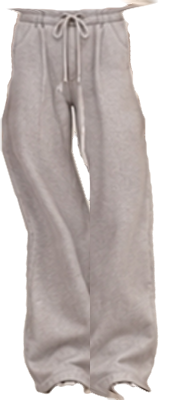
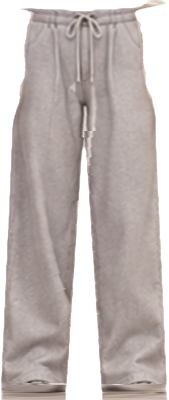
Pantalons : jambes droites et symétriques (plus de zigzag), chaussures sous l'ourlet
Claude-Session: https://claude.ai/code/session_01RffJDTtPaeahFdiXkdY2ya

diff --git a/js/app.js b/js/app.js
@@ -754,7 +754,7 @@ function body(s,p,sk,skD,skDD,skL){
  <pattern id="${p}qlt" width="20" height="20" patternUnits="userSpaceOnUse" patternTransform="rotate(45)"><path d="M0,0 H20 M0,0 V20" stroke="#000" stroke-opacity=".2" stroke-width="1.4"/></pattern></defs>`;
  let o=`<ellipse cx="200" cy="878" rx="80" ry="9" fill="#000" opacity=".13"/>`;
   {/* jean long décalqué : les jambes ne sont dessinées que sous l'ourlet (elles ne dépassent jamais sur les côtés) */
-   const JA=typeof JEAN_ART!=='undefined'&&s.bottom!=='bermuda'&&s.bottom!=='jupejean'&&!(s.dress&&s.dress!=='aucune')&&JEAN_ART[s.bottom],hy=JA?376+JA.h*(856-376)/JEAN_ART.mom.h-6:0;
+   const JA=typeof JEAN_ART!=='undefined'&&s.bottom!=='bermuda'&&s.bottom!=='jupejean'&&!(s.dress&&s.dress!=='aucune')&&JEAN_ART[s.bottom],hy=JA?(JEAN_PROF[s.bottom]||s.bottom==='joggajust'?376+JA.h*(856-376)/JEAN_ART.mom.h-6:900):0;/* pantalons longs décalqués : les jambes restent cachées (elles ne dépassent pas entre les deux jambes du pantalon) */
    o+=(JA?`<defs><clipPath id="${p}lgc"><rect x="0" y="${fx(hy)}" width="400" height="200"/></clipPath></defs><g clip-path="url(#${p}lgc)">`:'')+[-1,1].map(k=>`<path d="${legD(G,k)}" fill="${LM}"/>`).join('')+(JA?'</g>':'')}
  o+=`<path d="${torsoD(G,478,0,'flat')}" fill="${sk}"/><ellipse cx="200" cy="398" rx="2.2" ry="3.5" fill="${skDD}" opacity=".45"/>`;
  if(G.f)o+=LN('M170,360 Q186,372 200,378 Q214,372 230,360',skD,1.5,.25);
@@ -763,7 +763,10 @@ function body(s,p,sk,skD,skDD,skL){
  const nw=s.sexe==='m'?16.5:15;o+=s.sexe==='m'?`<path d="M${200-nw},150 L${200-nw},224 Q200,234 ${200+nw},224 L${200+nw},150Z" fill="${mix(skD,sk,.55)}"/>`:`<path d="M185,150 L185,220 Q200,230 215,220 L215,150Z" fill="${mix(skD,sk,.55)}"/>`;
  if(T.neck==='off'||T.neck==='asym'||T.neck==='deepv')o+=LN('M168,226 Q182,231 194,227 M206,227 Q218,231 232,226',skDD,1.6,.35);
  const boot=s.shoes==='bottes';
- if(!boot)o+=shoesSVG(s,sk,G,skD,skL,p);
+ /* pantalon long décalqué : la chaussure ne dépasse pas au-dessus de l'ourlet (entre les deux jambes du pantalon) */
+ const JL=typeof JEAN_ART!=='undefined'&&JEAN_ART[s.bottom]&&!JEAN_PROF[s.bottom]&&!['jupejean','joggajust'].includes(s.bottom)&&!(s.dress&&s.dress!=='aucune')?376+JEAN_ART[s.bottom].h*(856-376)/JEAN_ART.mom.h-10:0;
+ const shoeW=x=>JL?`<defs><clipPath id="${p}shc"><rect x="0" y="${fx(JL)}" width="400" height="200"/></clipPath></defs><g clip-path="url(#${p}shc)">${x}</g>`:x;
+ if(!boot)o+=shoeW(shoesSVG(s,sk,G,skD,skL,p));
  if(!(s.dress&&s.dress!=='aucune'&&DR[s.dress]))o+=bottomsSVG(G,s,p);
  if(boot)o+=shoesSVG(s,sk,G,skD,skL,p);
  o+=topSVG(G,T,s,p,{TF,LM,c,dk,lt,cont,sk,skDD,h});

diff --git a/js/pantalons-art.js b/js/pantalons-art.js
@@ -1,2 +1,2 @@
 /* pantalons et jupe en jean décalqués par tools/traceur-pantalons.py sur docs/references/vetements/planche-bas-filles.png — ne pas modifier à la main */
-Object.assign(JEAN_ART,{"habpattes":{"w":177,"h":393,"cx":67.9,"waist":38.9,"hip":60.0},"habdroit":{"w":169,"h":393,"cx":67.9,"waist":40.0,"hip":59.3},"cargo":{"w":184,"h":389,"cx":76.5,"waist":40.0,"hip":59.3},"jogglarge":{"w":186,"h":400,"cx":71.1,"waist":38.9,"hip":58.6},"joggajust":{"w":147,"h":352,"cx":68.6,"waist":38.6,"hip":59.3},"lin":{"w":150,"h":393,"cx":57.9,"waist":32.5,"hip":50.7},"jupejean":{"w":150,"h":123,"cx":74.3,"waist":45.0,"hip":65.0}});
+Object.assign(JEAN_ART,{"habpattes":{"w":165,"h":393,"cx":81.9,"waist":38.9,"hip":60.0},"habdroit":{"w":146,"h":393,"cx":72.9,"waist":40.0,"hip":59.3},"cargo":{"w":156,"h":389,"cx":77.5,"waist":40.0,"hip":59.3},"jogglarge":{"w":169,"h":400,"cx":84.1,"waist":38.9,"hip":58.6},"joggajust":{"w":139,"h":352,"cx":67.6,"waist":38.6,"hip":59.3},"lin":{"w":140,"h":393,"cx":69.9,"waist":32.5,"hip":50.7},"jupejean":{"w":150,"h":123,"cx":74.3,"waist":45.0,"hip":65.0}});

diff --git a/tools/traceur-pantalons.py b/tools/traceur-pantalons.py
@@ -138,9 +138,63 @@ def smooth(v, sig=5):
     if not ok.any(): return np.zeros_like(v)
     idx = np.arange(len(v)); v = np.interp(idx, idx[ok], v[ok])
     return ndimage.gaussian_filter1d(v, sig, mode='nearest')
+DEG = {'habpattes': 1, 'habdroit': 1, 'cargo': 1, 'jogglarge': 1, 'joggajust': 2, 'lin': 1}
+def straighten(n, img, sv):
+    """jambes droites : les 4 bords des jambes (extérieur et intérieur, gauche et droite) suivent une droite
+    (une courbe douce pour les joggings) ; chaque ligne est réétirée entre ces bords : plus de zigzag."""
+    if n not in DEG: return img
+    al = img[..., 3] > 127; H_, W_ = al.shape
+    ys = [y for y in range(H_) if al[y].any()]; t, bt = ys[0], ys[-1]
+    y0 = int((500 - 376) / sv)            # sous les hanches
+    yb = bt - 3
+    E = {k: [] for k in ('l1', 'r1', 'l2', 'r2')}; Y2 = []; Y1 = []; EO = []
+    for y in range(y0, yb):
+        rr = [r_ for r_ in runs(al[y]) if r_[1] - r_[0] >= 4]
+        if len(rr) >= 2: E['l1'].append(rr[0][0]); E['r1'].append(rr[0][1]); E['l2'].append(rr[-1][0]); E['r2'].append(rr[-1][1]); Y2.append(y)
+        if rr: Y1.append(y); EO.append((rr[0][0], rr[-1][1]))
+    if len(Y1) < 10: return img
+    Y1 = np.array(Y1); EO = np.array(EO, float)
+    d = DEG[n]
+    fo_l = np.polyfit(Y1, EO[:, 0], d); fo_r = np.polyfit(Y1, EO[:, 1], d)
+    # entrejambe : première ligne à partir de laquelle les deux jambes sont séparées la plupart du temps
+    two = np.zeros(H_, bool); two[Y2] = True
+    crotch = next((y for y in range(y0, yb) if two[y:y + 20].mean() > .6), H_)
+    sel = [k for k, y in enumerate(Y2) if y >= crotch]
+    if len(sel) > 10:
+        Y2a = np.array(Y2)[sel]; fi_l = np.polyfit(Y2a, np.array(E['r1'])[sel], d); fi_r = np.polyfit(Y2a, np.array(E['l2'])[sel], d)
+    else: fi_l = fi_r = None
+    top_ = [np.where(al[y])[0] for y in range(t + 6, t + 50) if al[y].any()]; CX = float(np.median([(q.min() + q.max()) / 2 for q in top_]))
+    out = img.copy(); xs = np.arange(W_, dtype=np.float32)
+    def put(row, a0, a1, b0, b1, y):
+        m_ = (xs >= b0) & (xs <= b1)
+        src = a0 + (xs[m_] - b0) * (a1 - a0) / max(1e-3, b1 - b0)
+        for c in range(4): row[m_, c] = np.interp(src, xs, img[y, :, c])
+    for y in range(y0, bt + 1):
+        rr = [r_ for r_ in runs(al[y]) if r_[1] - r_[0] >= 2]
+        if not rr: continue
+        w = min(1, (y - y0) / 25)          # transition douce sous les hanches
+        L, R = np.polyval(fo_l, y), np.polyval(fo_r, y)
+        hw_ = (R - L) / 2; L, R = CX - hw_, CX + hw_   # les deux jambes symétriques
+        L = rr[0][0] + (L - rr[0][0]) * w; R = rr[-1][1] + (R - rr[-1][1]) * w
+        row = np.zeros((W_, 4), np.float32)
+        if fi_l is not None and y >= crotch:
+            IL, IR = np.polyval(fi_l, y), np.polyval(fi_r, y)
+            gw_ = (IR - IL) / 2; IL, IR = CX - gw_, CX + gw_
+            if IL >= IR - 1: IL = IR = (IL + IR) / 2
+            wg = min(1, (y - crotch) / 30); mg = (IL + IR) / 2; IL = mg + (IL - mg) * wg; IR = mg + (IR - mg) * wg   # l'entrejambe s'ouvre en douceur
+            if len(rr) >= 2: sl, sr = (rr[0][0], rr[0][1]), (rr[-1][0], rr[-1][1])
+            else: mid = (rr[0][0] + rr[-1][1]) / 2; sl, sr = (rr[0][0], mid), (mid, rr[-1][1])
+            put(row, sl[0], sl[1], L, IL, y); put(row, sr[0], sr[1], IR, R, y)
+        else:
+            put(row, rr[0][0], rr[-1][1], L, R, y)
+        out[y] = row
+    return out
+
 def fit_body(n, img):
-    al = img[..., 3] > 127; al = ndimage.binary_opening(al, iterations=1); H_, W_ = al.shape
-    top = [np.where(al[y])[0] for y in range(3, 9)]
+    al = img[..., 3] > 127; al = ndimage.binary_opening(al, iterations=1)
+    lb_, nl_ = ndimage.label(al); al = lb_ == (np.argmax(ndimage.sum(al, lb_, range(1, nl_ + 1))) + 1)
+    img = img.copy(); img[..., 3] *= al; H_, W_ = al.shape
+    top = [np.where(al[y])[0] for y in range(6, 50) if al[y].any()]
     cx = float(np.median([(q.min() + q.max()) / 2 for q in top]))
     ref_y = int(round(ART['mom']['h'] * .12))
     q = np.where(al[min(ref_y, H_ - 1)])[0]; hip = (q.max() - q.min()) / 2
@@ -162,9 +216,10 @@ def fit_body(n, img):
         yav = 376 + y * sv; src = xs.copy()
         w1 = 1 if yav <= 450 else max(0, 1 - (yav - 450) / 70)
         if w1 > 0: k = 1 + (K1[y] - 1) * w1; src = C0[y] + (xs - C0[y]) * k
-        w2 = 0 if (yav < 560 or n == 'jupejean') else min(1, (yav - 560) / 100)
+        w2 = 0 if (yav < 560 or n != 'joggajust') else min(1, (yav - 560) / 100)   # seul le jogging ajusté (chevillères) suit la jambe ; les autres gardent leur forme, les pieds restent sous l'ourlet
         if w2 > 0: src = np.where(xs < cx, src - DL[y] * w2, src - DR[y] * w2)
         for c in range(4): out[y, :, c] = np.interp(src, xs, img[y, :, c], left=0, right=0)
+    out = straighten(n, out, sv)
     # contour lissé (les marches d'escalier du détourage disparaissent)
     A_ = out[..., 3] / 255.
     B_ = cv2.GaussianBlur(A_.astype(np.float32), (0, 0), 1.6)
@@ -188,7 +243,11 @@ for n, (a, m) in store.items():
     al = np.minimum(al, cv2.GaussianBlur(al.astype(np.float32), (0, 0), .6) + .15) * m + cv2.GaussianBlur(al.astype(np.float32), (0, 0), .6) * (~m) * .5   # bords adoucis
     rgba = np.dstack([a[..., ::-1], al * 255]).astype(np.float32)[t:bt + 1, l:rr + 1]
     big = cv2.resize(rgba, None, fx=K, fy=K, interpolation=cv2.INTER_CUBIC)
-    big = fit_body(n, np.clip(big, 0, 255))
+    PAD = 40
+    big = np.pad(np.clip(big, 0, 255), ((0, 0), (PAD, PAD), (0, 0)))
+    big = fit_body(n, big)
+    cols = np.where((big[..., 3] > 0).any(0))[0]; c0_ = max(0, cols.min() - 1); big = big[:, c0_:cols.max() + 2]
+    shift = PAD - c0_
     big = np.clip(big, 0, 255).astype(np.uint8)
     from PIL import Image
     Image.fromarray(big, 'RGBA').save(os.path.join(R, f'assets/bas/jean-{n}.png'), optimize=True)
@@ -198,6 +257,6 @@ for n, (a, m) in store.items():
     hw = float(np.median([(q.max() - q.min()) / 2 for q in top]))
     yh = min(bt - t, int(round(ref * .12)))   # hanches : même hauteur sous la ceinture pour toutes les pièces
     hip = (np.where(mm[yh])[0].max() - np.where(mm[yh])[0].min()) / 2
-    art[n] = dict(w=int(big.shape[1]), h=int(big.shape[0]), cx=round(float(cx) * K, 1), waist=round(float(hw) * K, 1), hip=round(float(hip) * K, 1))
+    art[n] = dict(w=int(big.shape[1]), h=int(big.shape[0]), cx=round(float(cx) * K + shift, 1), waist=round(float(hw) * K, 1), hip=round(float(hip) * K, 1))
     print(n, art[n])
 open(os.path.join(R, 'js/pantalons-art.js'), 'w').write('/* pantalons et jupe en jean décalqués par tools/traceur-pantalons.py sur docs/references/vetements/planche-bas-filles.png — ne pas modifier à la main */\nObject.assign(JEAN_ART,' + json.dumps(art, separators=(',', ':')) + ');\n')
